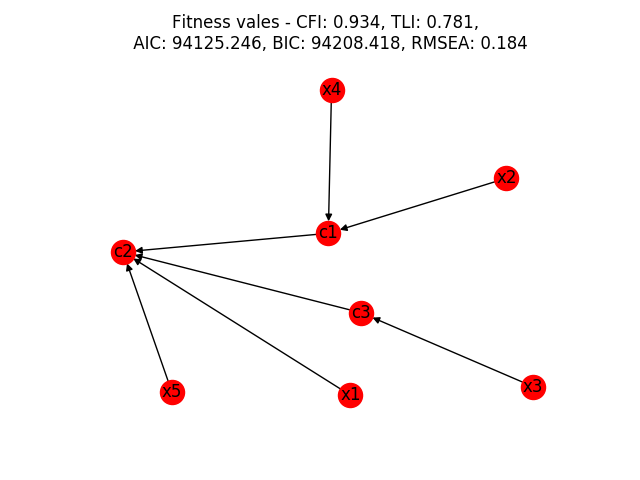
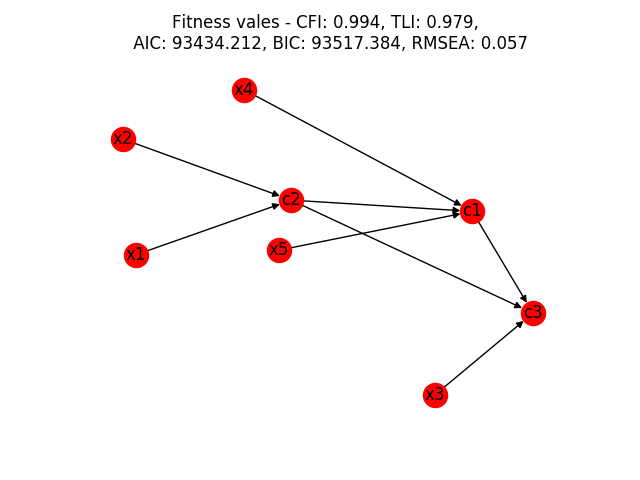
Done !! Results seem promising :)

diff --git a/src/python/main.py b/src/python/main.py
@@ -2,6 +2,7 @@
 __author__ = "Prashant Shivarm Bhat"
 __email__ = "PrashantShivaram@outlook.com"
 import warnings
+
 warnings.simplefilter("ignore")
 
 import abc
@@ -9,12 +10,15 @@ import random
 import warnings
 from deap import creator, base, tools, algorithms
 from sklearn.base import BaseEstimator, TransformerMixin
+
 random.seed(10)
 import numpy as np
+
 np.random.seed(10)
 from itertools import cycle
 from util import *
 import pandas as pd
+
 
 class AllRelations(BaseEstimator, TransformerMixin, metaclass=abc.ABCMeta):
 
@@ -44,8 +48,7 @@ class AllRelations(BaseEstimator, TransformerMixin, metaclass=abc.ABCMeta):
         self._toolbox.register('mate', mate, self._concepts, self._variables)
         self._toolbox.register('mutate', mutate, self._concepts, self._variables)
 
-
-    def _initialize_SEM(self, ind):
+    def _initialize_SEM(self, individual):
         variables = deepcopy(self._variables)
         pool = cycle(self._concepts)
         # measurement model
@@ -53,14 +56,13 @@ class AllRelations(BaseEstimator, TransformerMixin, metaclass=abc.ABCMeta):
             if variables:
                 observation = random.choice(variables)
                 variables.remove(observation)
-                ind.add_edge(observation, concept)
+                individual.add_edge(observation, concept)
             else:
                 break
         # Structural model
-        for concept in self._concepts:
-            con = random.choice(self._concepts)
-            ind.add_edge(concept, con)
-        ind.remove_edges_from(ind.selfloop_edges())
+        concept_tuples = itertools.combinations(self._concepts, 2)
+        for pairs in concept_tuples:
+            individual.add_edge(pairs[0], pairs[1])
 
     def _create_individual(self):
         ind = nx.DiGraph()
@@ -78,12 +80,11 @@ class AllRelations(BaseEstimator, TransformerMixin, metaclass=abc.ABCMeta):
         stats.register("min", np.min)
         stats.register("max", np.max)
         pop, log = algorithms.eaSimple(self._pop, toolbox=self._toolbox,
-                                  cxpb=self._crossover_rate, mutpb=self._mutation_rate, ngen=self._generation,
-                                  stats=stats, halloffame=self._hof, verbose=True)
+                                       cxpb=self._crossover_rate, mutpb=self._mutation_rate, ngen=self._generation,
+                                       stats=stats, halloffame=self._hof, verbose=True)
         log_dataframe = pd.DataFrame(log)
         log_dataframe.to_csv('../../results/generation_log.csv')
         compose_SEM(self._hof)
-
 
     def fit(self):
         self._setup_toolbox()
@@ -92,8 +93,5 @@ class AllRelations(BaseEstimator, TransformerMixin, metaclass=abc.ABCMeta):
         pass
 
 
-
-all = AllRelations(generation=1, pop_size=3)
+all = AllRelations(generation=1, pop_size=20)
 all.fit()
-
-

diff --git a/src/python/util.py b/src/python/util.py
@@ -9,7 +9,7 @@ from evaluate import *
 import random
 from copy import deepcopy
 from deap.tools import HallOfFame
-
+import itertools
 
 def extract_model(individual):
     measurement_model = []
@@ -117,13 +117,18 @@ def validate_individual(concepts,variables, ind):
         if individual.out_degree(var) > 1:
             for successor in succ[:-1]:
                 individual.remove_edges_from(var, successor)
-    # if disconnected, add connection between concepts in structural model
-    # if not nx.is_strongly_connected(individual):
-    #     for con in concepts:
-    #         neighbors = list(individual.neighbors(con))
-    #         if individual.out_degree(con) == 0:
-    #             succ = list(individual.successors(con))
-    #             pred = list(individual.predecessors(con))
+
+    # at least and at most one edge between concepts
+    concept_tuples = itertools.combinations(concepts, 2)
+    for pairs in concept_tuples:
+        edges = individual.number_of_edges(pairs[0], pairs[1]) + individual.number_of_edges(pairs[1], pairs[0])
+        if edges > 1:
+            individual.remove_edge(pairs[0], pairs[1])
+        elif edges < 1:
+            individual.add_edge(pairs[0], pairs[1])
+
+
+
     return individual
 
 
